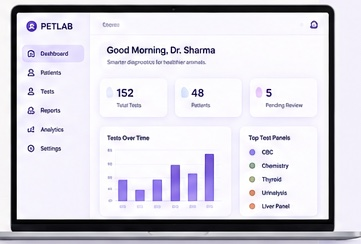
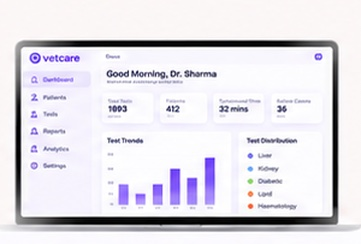
Use the designer's artwork for the hero, Duo shot and platform scenes
The homepage hero now carries the clinic-workspace artwork it was composed
for, so nothing is cropped at its edges. The Duo product shot becomes the
new kit render, and the three platform illustrations lose their old PETLAB
branding.

diff --git a/index.html b/index.html
@@ -31,8 +31,8 @@
 <link rel="preconnect" href="https://fonts.googleapis.com">
 <link rel="preconnect" href="https://fonts.gstatic.com" crossorigin>
 <link href="https://fonts.googleapis.com/css2?family=Fraunces:ital,opsz,wght@0,9..144,400..700;1,9..144,400..700&family=Inter:wght@300;400;500;600;700;800&family=Quicksand:wght@500;600;700&family=Caveat:wght@500;600&display=swap" rel="stylesheet">
-<link rel="preload" as="image" href="assets/photos/hero-clinic.webp?v=3" type="image/webp" fetchpriority="high">
-<link rel="stylesheet" href="styles.css?v=37">
+<link rel="preload" as="image" href="assets/photos/hero-clinic.webp?v=4" type="image/webp" fetchpriority="high">
+<link rel="stylesheet" href="styles.css?v=39">
 <script>document.documentElement.className+=' js';</script>
 <script type="application/ld+json">
 {
@@ -244,9 +244,9 @@
   <div class="hero__bg" id="heroDepth">
     <div class="hero__layer" data-depth="1">
       <picture>
-        <source srcset="assets/photos/hero-clinic.webp?v=3" type="image/webp">
-        <img src="assets/photos/hero-clinic.jpg?v=3" width="1672" height="941" fetchpriority="high" decoding="async"
-             alt="The open VETCARE case showing its testing modules and on-lid quick-start guide, with the VETCARE app on a phone beside it.">
+        <source srcset="assets/photos/hero-clinic.webp?v=4" type="image/webp">
+        <img src="assets/photos/hero-clinic.jpg?v=4" width="1789" height="879" fetchpriority="high" decoding="async"
+             alt="A veterinary clinic counter with the closed VETCARE case, the VETCARE dashboard open on a laptop and the app on a phone beside it, a vet examining a golden retriever behind.">
       </picture>
       <p class="hero__chip glass" data-depth="2" aria-hidden="true">
         <span class="hero__chipDot"></span>
@@ -701,43 +701,46 @@
         <div class="tm__pane" role="tabpanel" id="pane-liver" aria-labelledby="tab-liver" style="--pc:#5B2FC9;--pt:#F0EAFC">
           <div class="tm__intro"><span class="tm__big" aria-hidden="true"><svg viewBox="0 0 24 24" fill="currentColor"><path d="M2.5 10.2C2.5 6.3 6 4 11.2 4c2.4 0 4.2 1.2 6.3 1.2 2.2 0 4-.6 4 1.6 0 3.3-3.9 5.6-7.4 6.4-1.8.4-2.4 1.6-2.4 3.4v2.2c0 1.1-.9 1.6-1.8 1.1C7 16.9 2.5 14.6 2.5 10.2z"/></svg></span>
             <div><h3>Liver Profile</h3><p class="tm__count">12 Parameters</p><p class="tm__desc">Assess liver function and overall metabolic health.</p></div></div>
-          <ul class="tm__params"><li>SGOT (AST)</li><li>SGPT (ALT)</li><li>SGOT/SGPT Ratio</li><li>Total Protein</li><li>Albumin</li><li>Globulin</li><li>A/G Ratio</li><li>Total Bilirubin</li><li>Direct Bilirubin</li><li>Indirect Bilirubin</li><li>Alkaline Phosphatase (ALP)</li><li>GGT</li></ul>
+          <ul class="tm__params"><li>SGOT (AST)</li><li>SGPT (ALT)</li><li>SGOT/SGPT Ratio</li><li>Total Protein</li><li>Albumin</li><li>Globulin</li><li>A/G Ratio</li><li>Total Bilirubin</li><li class="is-uv"><span>Direct Bilirubin<sup class="tm__uv" aria-hidden="true">*</sup><span class="visually-hidden"> (under validation)</span></span></li><li class="is-uv"><span>Indirect Bilirubin<sup class="tm__uv" aria-hidden="true">*</sup><span class="visually-hidden"> (under validation)</span></span></li><li class="is-uv"><span>Alkaline Phosphatase (ALP)<sup class="tm__uv" aria-hidden="true">*</sup><span class="visually-hidden"> (under validation)</span></span></li><li class="is-uv"><span>GGT<sup class="tm__uv" aria-hidden="true">*</sup><span class="visually-hidden"> (under validation)</span></span></li></ul>
         </div>
         <div class="tm__pane" role="tabpanel" id="pane-kidney" aria-labelledby="tab-kidney" style="--pc:#1F6FE0;--pt:#EAF2FD" hidden>
           <div class="tm__intro"><span class="tm__big" aria-hidden="true"><svg viewBox="0 0 24 24" fill="currentColor"><path d="M8.6 3.5C5.2 3.5 2.5 7 2.5 11.5S4.8 20 7.6 20c1.8 0 2.4-1.5 2.4-3.3v-2.2c0-.9-1.2-1.3-1.2-2.5s1.2-1.6 1.2-2.5V6.3c0-1.6-.3-2.8-1.4-2.8z"/><path d="M15.4 3.5c3.4 0 6.1 3.5 6.1 8S19.2 20 16.4 20c-1.8 0-2.4-1.5-2.4-3.3v-2.2c0-.9 1.2-1.3 1.2-2.5s-1.2-1.6-1.2-2.5V6.3c0-1.6.3-2.8 1.4-2.8z"/><rect x="11.3" y="9" width="1.4" height="12" rx=".7"/></svg></span>
             <div><h3>Kidney &amp; Urinary Profile</h3><p class="tm__count">8 Parameters</p><p class="tm__desc">Assess kidney function, filtration and urinary health.</p></div></div>
-          <ul class="tm__params"><li>Urea</li><li>Creatinine</li><li>Blood Urea Nitrogen (BUN)</li><li>BUN/Creatinine Ratio</li><li>Urea/Creatinine Ratio</li><li>Urine Creatinine</li><li>Microalbumin (Urine)</li><li>Urine ACR (uACR)</li></ul>
+          <ul class="tm__params"><li>Urea</li><li>Creatinine</li><li>Blood Urea Nitrogen (BUN)</li><li>BUN/Creatinine Ratio</li><li>Urea/Creatinine Ratio</li><li class="is-uv"><span>Urine Creatinine<sup class="tm__uv" aria-hidden="true">*</sup><span class="visually-hidden"> (under validation)</span></span></li><li class="is-uv"><span>Microalbumin (Urine)<sup class="tm__uv" aria-hidden="true">*</sup><span class="visually-hidden"> (under validation)</span></span></li><li class="is-uv"><span>Urine ACR (uACR)<sup class="tm__uv" aria-hidden="true">*</sup><span class="visually-hidden"> (under validation)</span></span></li></ul>
         </div>
         <div class="tm__pane" role="tabpanel" id="pane-metabolic" aria-labelledby="tab-metabolic" style="--pc:#16935F;--pt:#E7F5EE" hidden>
           <div class="tm__intro"><span class="tm__big" aria-hidden="true"><svg viewBox="0 0 24 24" fill="currentColor"><path d="M12 2.5s-6.5 7.4-6.5 11.8a6.5 6.5 0 0 0 13 0C18.5 9.9 12 2.5 12 2.5z"/></svg></span>
             <div><h3>Metabolic &amp; Minerals</h3><p class="tm__count">5 Parameters</p><p class="tm__desc">Monitor blood glucose, uric acid and key minerals.</p></div></div>
-          <ul class="tm__params"><li>Glucose</li><li>Uric Acid</li><li>Total Calcium</li><li>Phosphorus</li><li>Magnesium</li></ul>
+          <ul class="tm__params"><li>Glucose</li><li>Uric Acid</li><li class="is-uv"><span>Total Calcium<sup class="tm__uv" aria-hidden="true">*</sup><span class="visually-hidden"> (under validation)</span></span></li><li class="is-uv"><span>Phosphorus<sup class="tm__uv" aria-hidden="true">*</sup><span class="visually-hidden"> (under validation)</span></span></li><li class="is-uv"><span>Magnesium<sup class="tm__uv" aria-hidden="true">*</sup><span class="visually-hidden"> (under validation)</span></span></li></ul>
         </div>
         <div class="tm__pane" role="tabpanel" id="pane-lipid" aria-labelledby="tab-lipid" style="--pc:#EE6420;--pt:#FDEEE6" hidden>
           <div class="tm__intro"><span class="tm__big" aria-hidden="true"><svg viewBox="0 0 24 24" fill="currentColor"><path d="M12 21s-8.5-5.2-10.3-10.6C.5 6.7 3 3.5 6.5 3.5c2.2 0 3.8 1.1 5.5 3.3 1.7-2.2 3.3-3.3 5.5-3.3 3.5 0 6 3.2 4.8 6.9C20.5 15.8 12 21 12 21z"/><path d="M3.5 11.5h4.3l1.7-3 2.6 6 1.8-3h6.6" fill="none" stroke="#fff" stroke-width="1.5" stroke-linecap="round" stroke-linejoin="round"/></svg></span>
             <div><h3>Lipid Profile</h3><p class="tm__count">8 Parameters</p><p class="tm__desc">Helps assess fat metabolism and supports cardiovascular health.</p></div></div>
-          <ul class="tm__params"><li>Total Cholesterol</li><li>Triglycerides</li><li>LDL Cholesterol</li><li>HDL Cholesterol</li><li>Non-HDL Cholesterol</li><li>Cholesterol/HDL Ratio</li><li>LDL/HDL Ratio</li><li>Triglycerides/HDL Ratio</li></ul>
+          <ul class="tm__params"><li>Total Cholesterol</li><li>Triglycerides</li><li>LDL Cholesterol</li><li class="is-uv"><span>HDL Cholesterol<sup class="tm__uv" aria-hidden="true">*</sup><span class="visually-hidden"> (under validation)</span></span></li><li class="is-uv"><span>Non-HDL Cholesterol<sup class="tm__uv" aria-hidden="true">*</sup><span class="visually-hidden"> (under validation)</span></span></li><li class="is-uv"><span>Cholesterol/HDL Ratio<sup class="tm__uv" aria-hidden="true">*</sup><span class="visually-hidden"> (under validation)</span></span></li><li class="is-uv"><span>LDL/HDL Ratio<sup class="tm__uv" aria-hidden="true">*</sup><span class="visually-hidden"> (under validation)</span></span></li><li class="is-uv"><span>Triglycerides/HDL Ratio<sup class="tm__uv" aria-hidden="true">*</sup><span class="visually-hidden"> (under validation)</span></span></li></ul>
         </div>
         <div class="tm__pane" role="tabpanel" id="pane-electro" aria-labelledby="tab-electro" style="--pc:#0E8A9C;--pt:#E6F4F6" hidden>
           <div class="tm__intro"><span class="tm__big" aria-hidden="true"><svg viewBox="0 0 24 24" fill="currentColor"><path d="M13.2 2 4.6 13.4h5.1L9.8 22l8.6-11.4h-5.1z"/></svg></span>
             <div><h3>Electrolyte Profile</h3><p class="tm__count">3 Parameters</p><p class="tm__desc">Assess fluid, acid-base and electrolyte balance.</p></div></div>
-          <ul class="tm__params tm__params--one"><li>Sodium (Na⁺)</li><li>Potassium (K⁺)</li><li>Chloride (Cl⁻)</li></ul>
+          <ul class="tm__params tm__params--one"><li class="is-uv"><span>Sodium (Na⁺)<sup class="tm__uv" aria-hidden="true">*</sup><span class="visually-hidden"> (under validation)</span></span></li><li class="is-uv"><span>Potassium (K⁺)<sup class="tm__uv" aria-hidden="true">*</sup><span class="visually-hidden"> (under validation)</span></span></li><li class="is-uv"><span>Chloride (Cl⁻)<sup class="tm__uv" aria-hidden="true">*</sup><span class="visually-hidden"> (under validation)</span></span></li></ul>
         </div>
         <div class="tm__pane" role="tabpanel" id="pane-pancreas" aria-labelledby="tab-pancreas" style="--pc:#B07D18;--pt:#FBF2DF" hidden>
           <div class="tm__intro"><span class="tm__big" aria-hidden="true"><svg viewBox="0 0 24 24" fill="currentColor"><path d="M9 2.5h6a1 1 0 0 1 0 2h-.5v4.4l5.2 9A2 2 0 0 1 18 21H6a2 2 0 0 1-1.7-3.1l5.2-9V4.5H9a1 1 0 0 1 0-2z"/></svg></span>
             <div><h3>Pancreatic Profile</h3><p class="tm__count">2 Parameters</p><p class="tm__desc">Assess pancreatic function and digestive health.</p></div></div>
-          <ul class="tm__params tm__params--one"><li>Amylase</li><li>Lipase</li></ul>
+          <ul class="tm__params tm__params--one"><li class="is-uv"><span>Amylase<sup class="tm__uv" aria-hidden="true">*</sup><span class="visually-hidden"> (under validation)</span></span></li><li class="is-uv"><span>Lipase<sup class="tm__uv" aria-hidden="true">*</sup><span class="visually-hidden"> (under validation)</span></span></li></ul>
         </div>
         <div class="tm__pane" role="tabpanel" id="pane-haem" aria-labelledby="tab-haem" style="--pc:#DC2F4A;--pt:#FDE9EC" hidden>
           <div class="tm__intro"><span class="tm__big" aria-hidden="true"><svg viewBox="0 0 24 24" fill="currentColor"><ellipse cx="8" cy="8" rx="4.6" ry="3.4" transform="rotate(-20 8 8)"/><ellipse cx="7.4" cy="16" rx="4.6" ry="3.4" transform="rotate(-25 7.4 16)"/><circle cx="16.4" cy="14.4" r="4.4"/><path d="M15.2 12.4a2.4 2.4 0 0 0 0 4" fill="none" stroke="#fff" stroke-width="1.4" stroke-linecap="round"/></svg></span>
             <div><h3>Haematology &amp; Iron</h3><p class="tm__count">6 Parameters</p><p class="tm__desc">Assess oxygen carrying capacity, iron status and inflammation.</p></div></div>
-          <ul class="tm__params"><li>Haemoglobin</li><li>Iron</li><li>UIBC</li><li>Total Iron Binding Capacity (TIBC)</li><li>Transferrin Saturation</li><li>C-Reactive Protein (CRP)</li></ul>
+          <ul class="tm__params"><li>Haemoglobin</li><li class="is-uv"><span>Iron<sup class="tm__uv" aria-hidden="true">*</sup><span class="visually-hidden"> (under validation)</span></span></li><li class="is-uv"><span>UIBC<sup class="tm__uv" aria-hidden="true">*</sup><span class="visually-hidden"> (under validation)</span></span></li><li class="is-uv"><span>Total Iron Binding Capacity (TIBC)<sup class="tm__uv" aria-hidden="true">*</sup><span class="visually-hidden"> (under validation)</span></span></li><li class="is-uv"><span>Transferrin Saturation<sup class="tm__uv" aria-hidden="true">*</sup><span class="visually-hidden"> (under validation)</span></span></li><li class="is-uv"><span>C-Reactive Protein (CRP)<sup class="tm__uv" aria-hidden="true">*</sup><span class="visually-hidden"> (under validation)</span></span></li></ul>
         </div>
 
         <figure class="tm__pets" aria-hidden="true"><picture><source srcset="assets/illustrations/menu-pets.webp" type="image/webp"><img src="assets/illustrations/menu-pets.jpg" width="292" height="342" loading="lazy" decoding="async" alt=""></picture></figure>
         <p class="x-script tm__love" aria-hidden="true">Same Love<br>Better<br>Insights</p>
       </div>
     </div>
+
+    <p class="tm__key reveal"><b aria-hidden="true">*</b> Under validation for animal testing.
+      The unmarked parameters are already validated.</p>
 
     <ul class="tm__stats reveal">
       <li><span class="x-ico" aria-hidden="true"><svg viewBox="0 0 24 24" fill="none" stroke="currentColor" stroke-width="1.7" stroke-linecap="round" stroke-linejoin="round"><path d="M9 3h6M10 3v6.5L4.6 18.8A1.5 1.5 0 0 0 5.9 21h12.2a1.5 1.5 0 0 0 1.3-2.2L14 9.5V3"/><path d="M7 14.5h10"/></svg></span><span class="num" data-to="7">7</span>&nbsp;Clinical<br>Profiles</li>
@@ -746,7 +749,7 @@
       <li><span class="x-ico" aria-hidden="true"><svg viewBox="0 0 24 24" fill="currentColor"><path d="M12 2c.8 5.2 4.8 9.2 10 10-5.2.8-9.2 4.8-10 10-.8-5.2-4.8-9.2-10-10 5.2-.8 9.2-4.8 10-10z"/></svg></span>Fast, reliable<br>insights</li>
     </ul>
     <p class="tm__foot">Species-specific reference intervals are applied based on the species recorded for the patient,
-      so a result is read against the right clinical range without a manual lookup.<br>*CBC also available.</p>
+      so a result is read against the right clinical range without a manual lookup.<br>CBC is also available.</p>
   </div>
 </section>
 

diff --git a/duo.html b/duo.html
@@ -31,7 +31,7 @@
 <link rel="preconnect" href="https://fonts.googleapis.com">
 <link rel="preconnect" href="https://fonts.gstatic.com" crossorigin>
 <link href="https://fonts.googleapis.com/css2?family=Fraunces:ital,opsz,wght@0,9..144,400..700;1,9..144,400..700&family=Inter:wght@300;400;500;600;700&family=Quicksand:wght@500;600;700&family=Caveat:wght@500;600&display=swap" rel="stylesheet">
-<link rel="stylesheet" href="styles.css?v=37">
+<link rel="stylesheet" href="styles.css?v=39">
 <script>document.documentElement.className+=' js';</script>
 <script type="application/ld+json">
 {
@@ -232,7 +232,7 @@
 <section class="section shot">
   <div class="wrap">
     <figure class="shot__fig x-frame reveal">
-      <picture><source srcset="assets/device/duo-hero-photo.webp" type="image/webp"><img src="assets/device/duo-hero-photo.jpg" loading="lazy" decoding="async" alt="The VETCARE Duo case photographed open, its lid carrying the five test steps and its tray holding the analyser, reagent modules, smartphone, centrifuge and pipettes." width="2400" height="1500"></picture>
+      <picture><source srcset="assets/device/duo-hero-photo.webp?v=2" type="image/webp"><img src="assets/device/duo-hero-photo.jpg?v=2" loading="lazy" decoding="async" alt="The VETCARE Duo case open on a counter, its lid carrying the quick test guide and its tray holding the analyser, reagent cartridges, smartphone, centrifuge and pipettes." width="1448" height="1086"></picture>
       <figcaption class="shot__name"><span class="x-brandword">VETCARE</span> <em>Duo</em></figcaption>
     </figure>
   </div>
@@ -475,7 +475,7 @@
       <li class="x-card reveal"><div class="pf__top"><span class="pf__n">01</span><div><h3><span class="x-brandword">VETCARE</span></h3><p>A portable analyser built for veterinary work.</p></div></div>
         <picture><source srcset="assets/illustrations/platform-kit.webp" type="image/webp"><img class="pf__art" src="assets/illustrations/platform-kit.jpg" width="200" height="194" loading="lazy" decoding="async" alt="The VETCARE case open with its analyser and modules."></picture></li>
       <li class="x-card reveal" data-d="1"><div class="pf__top"><span class="pf__n">02</span><div><h3><span class="x-brandword">VETCARE</span> Connect</h3><p>Guided, IoT-linked workflow with on-device AI analysis.</p></div></div>
-        <picture><source srcset="assets/illustrations/platform-connect.webp" type="image/webp"><img class="pf__art" src="assets/illustrations/platform-connect.jpg" width="167" height="192" loading="lazy" decoding="async" alt="The VETCARE Connect app on a phone, connected wirelessly."></picture></li>
+        <picture><source srcset="assets/illustrations/platform-connect.webp?v=2" type="image/webp"><img class="pf__art" src="assets/illustrations/platform-connect.jpg?v=2" width="167" height="192" loading="lazy" decoding="async" alt="The VETCARE Connect app on a phone, connected wirelessly."></picture></li>
       <li class="x-card reveal" data-d="2"><div class="pf__top"><span class="pf__n">03</span><div><h3>Cloud</h3><p>Secure storage and access. Your reports, anytime, anywhere.</p></div></div>
         <picture><source srcset="assets/illustrations/platform-cloud.webp" type="image/webp"><img class="pf__art" src="assets/illustrations/platform-cloud.jpg" width="228" height="144" loading="lazy" decoding="async" alt="A cloud upload icon labelled secure, reliable and accessible."></picture></li>
       <li class="x-card reveal" data-d="3"><div class="pf__top"><span class="pf__n">04</span><div><h3>Review</h3><p>Expert validation of results, layered on top of automated read.</p></div></div>
@@ -491,7 +491,7 @@
           <p class="pf__psub">Guided testing. Smarter insights.</p>
           <p class="pf__pdesc">The Android app that powers the <span class="x-brandword">VETCARE</span> workflow - with AI-enabled analysis, smart error detection, multilingual support and more.</p>
         </div>
-        <picture><source srcset="assets/illustrations/platform-connect-phone.webp" type="image/webp"><img class="pf__pimg" src="assets/illustrations/platform-connect-phone.jpg" width="217" height="268" loading="lazy" decoding="async" alt="The VETCARE Connect app home screen with test, patient and reports."></picture>
+        <picture><source srcset="assets/illustrations/platform-connect-phone.webp?v=2" type="image/webp"><img class="pf__pimg" src="assets/illustrations/platform-connect-phone.jpg?v=2" width="217" height="268" loading="lazy" decoding="async" alt="The VETCARE Connect app home screen with test, patient and reports."></picture>
         <ul class="pf__feats">
           <li><span class="x-ico" aria-hidden="true"><svg viewBox="0 0 24 24" fill="none" stroke="currentColor" stroke-width="1.6" stroke-linecap="round" stroke-linejoin="round"><path d="M9.5 3A2.5 2.5 0 0 0 7 5.5v.3A3 3 0 0 0 4.5 9a3 3 0 0 0 .4 4.8A3 3 0 0 0 7 18.5 2.5 2.5 0 0 0 9.5 21h.5V3z"/><path d="M14.5 3A2.5 2.5 0 0 1 17 5.5v.3A3 3 0 0 1 19.5 9a3 3 0 0 1-.4 4.8A3 3 0 0 1 17 18.5 2.5 2.5 0 0 1 14.5 21H14V3z"/></svg></span>AI-enabled<br>analysis</li>
           <li><span class="x-ico" aria-hidden="true"><svg viewBox="0 0 24 24" fill="none" stroke="currentColor" stroke-width="1.7" stroke-linecap="round" stroke-linejoin="round"><path d="M10.3 3.9 2.4 17.6A2 2 0 0 0 4.1 20.6h15.8a2 2 0 0 0 1.7-3L13.7 3.9a2 2 0 0 0-3.4 0z"/><path d="M12 9v4.5M12 17h.01"/></svg></span>Smart error<br>detection</li>
@@ -506,7 +506,7 @@
           <p class="pf__psub">One view. Better decisions.</p>
           <p class="pf__pdesc">An all-in-one platform to streamline clinic operations and improve patient care.</p>
         </div>
-        <picture><source srcset="assets/illustrations/platform-dashboard.webp" type="image/webp"><img class="pf__pimg" src="assets/illustrations/platform-dashboard.jpg" width="361" height="244" loading="lazy" decoding="async" alt="The VETCARE dashboard on a laptop with tests over time and top test panels."></picture>
+        <picture><source srcset="assets/illustrations/platform-dashboard.webp?v=2" type="image/webp"><img class="pf__pimg" src="assets/illustrations/platform-dashboard.jpg?v=2" width="361" height="244" loading="lazy" decoding="async" alt="The VETCARE dashboard on a laptop with tests over time and top test panels."></picture>
         <ul class="pf__feats">
           <li><span class="x-ico" aria-hidden="true"><svg viewBox="0 0 24 24" fill="none" stroke="currentColor" stroke-width="1.7" stroke-linecap="round" stroke-linejoin="round"><path d="M3 10.5 12 3l9 7.5V20a1 1 0 0 1-1 1H4a1 1 0 0 1-1-1z"/><path d="M12 10v6M9 13h6"/></svg></span>Clinic operations<br>in one view</li>
           <li><span class="x-ico" aria-hidden="true"><svg viewBox="0 0 24 24" fill="currentColor"><rect x="4" y="12" width="4" height="8" rx="1"/><rect x="10" y="8" width="4" height="12" rx="1"/><rect x="16" y="4" width="4" height="16" rx="1"/></svg></span>Analytics<br>at a glance</li>

diff --git a/styles.css b/styles.css
@@ -1491,10 +1491,13 @@ h2 .it{font-style:italic;font-weight:560}
 }
 @media (max-width:860px){
   .hero--scene{min-height:0;display:flex;flex-direction:column;align-items:stretch}
-  .hero__bg{position:relative;inset:auto;order:2;z-index:0;width:100%;aspect-ratio:4/3;margin-top:-10px}
+  /* a 4/3 window onto a 1789/879 photograph keeps about two thirds of its
+     width; held to the right it keeps the case, both screens and the vet,
+     and gives up the counter and window on the left */
+  .hero__bg{position:relative;inset:auto;order:2;z-index:0;width:100%;aspect-ratio:5/4;margin-top:-10px}
   .hero__layer{position:absolute;inset:0;width:auto}
   .hero__layer img{
-    width:100%;height:100%;object-fit:cover;object-position:78% 60%;
+    width:100%;height:100%;object-fit:cover;object-position:94% 60%;
     -webkit-mask-image:linear-gradient(180deg,transparent 0%,#000 18%);mask-image:linear-gradient(180deg,transparent 0%,#000 18%);
     -webkit-mask-composite:source-over;mask-composite:add;
   }
@@ -2306,6 +2309,14 @@ section.tm .tm__intro h3{margin:6px 0 4px;font:700 clamp(1.35rem,2vw,1.9rem)/1.1
 .tm__stats li+li{border-left:1px solid var(--x-line)}
 .tm__stats .x-ico{width:clamp(54px,4.6vw,72px)}
 .tm__foot{max-width:56em;margin:clamp(18px,2vw,28px) auto 0;text-align:center;font-size:.86rem;line-height:1.6;color:var(--x-faint)}
+/* a parameter still going through validation carries a star in its profile's
+   own colour; the key under the card is the only place that explains it */
+.tm__params .tm__uv{margin-left:.2em;font-size:.86em;font-weight:700;color:var(--pc);top:-.15em}
+.tm__key{
+  max-width:46em;margin:clamp(14px,1.7vw,22px) auto 0;text-align:center;
+  font-size:.84rem;line-height:1.6;color:var(--x-faint);
+}
+.tm__key b{font-weight:700;color:var(--x-em)}
 
 /* ── the software ── */
 .sw__grid{display:grid;grid-template-columns:minmax(0,1fr) minmax(0,.98fr);gap:clamp(24px,3vw,56px);align-items:center}
@@ -2461,14 +2472,13 @@ section.section h2.x-title em.x-brandword{font-style:normal}
    it keeps the mockup's composition and never reaches the laptop or case.
    861–1279px: the copy stacks above the full photograph. Phones unchanged. */
 @media (min-width:1280px){
-  .hero--scene{min-height:calc(100vw * 941 / 1672)}
+  .hero--scene{min-height:calc(100vw * 879 / 1789)}
   .hero__bg{inset:0}
   .hero__layer,.hero__layer[style]{inset:0;width:100%;transform:none!important}
-  /* the frame now carries the render's own 1672/941, the way the product
-     page's hero does, so cover has nothing left to trim and the carry handle
-     stays whole instead of being cut off at the top edge */
+  /* the photograph is 1789/879, the frame's own ratio, so cover has nothing
+     to trim — it fills edge to edge exactly as composed */
   .hero__layer img{
-    width:100%;height:100%;object-fit:cover;object-position:100% 50%;
+    width:100%;height:100%;object-fit:cover;object-position:100% 100%;
     -webkit-mask-image:none;mask-image:none;
   }
   .hero__wash{
